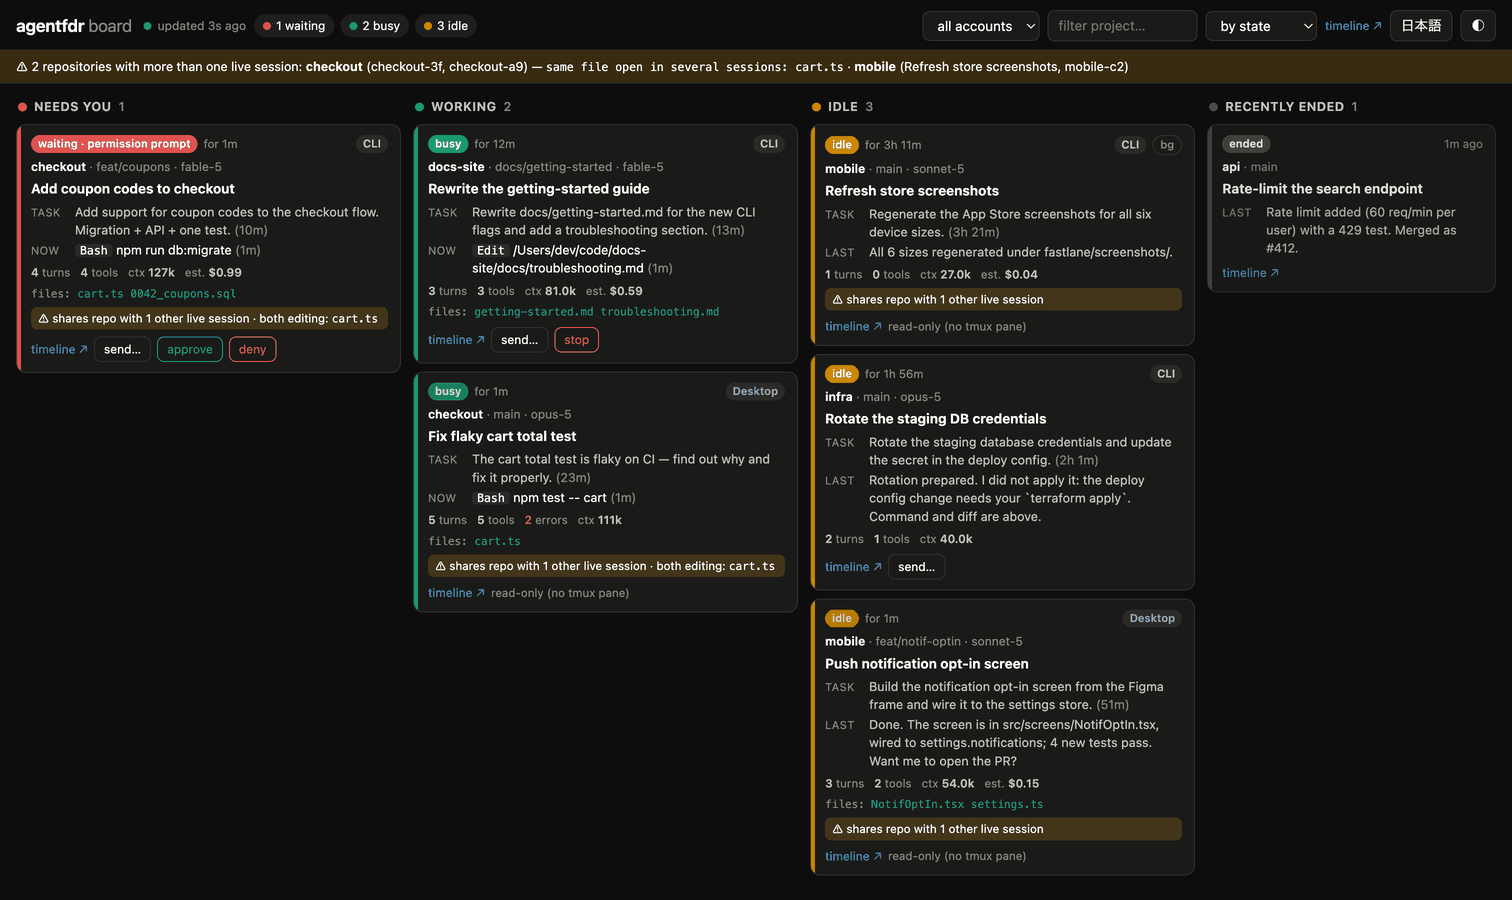
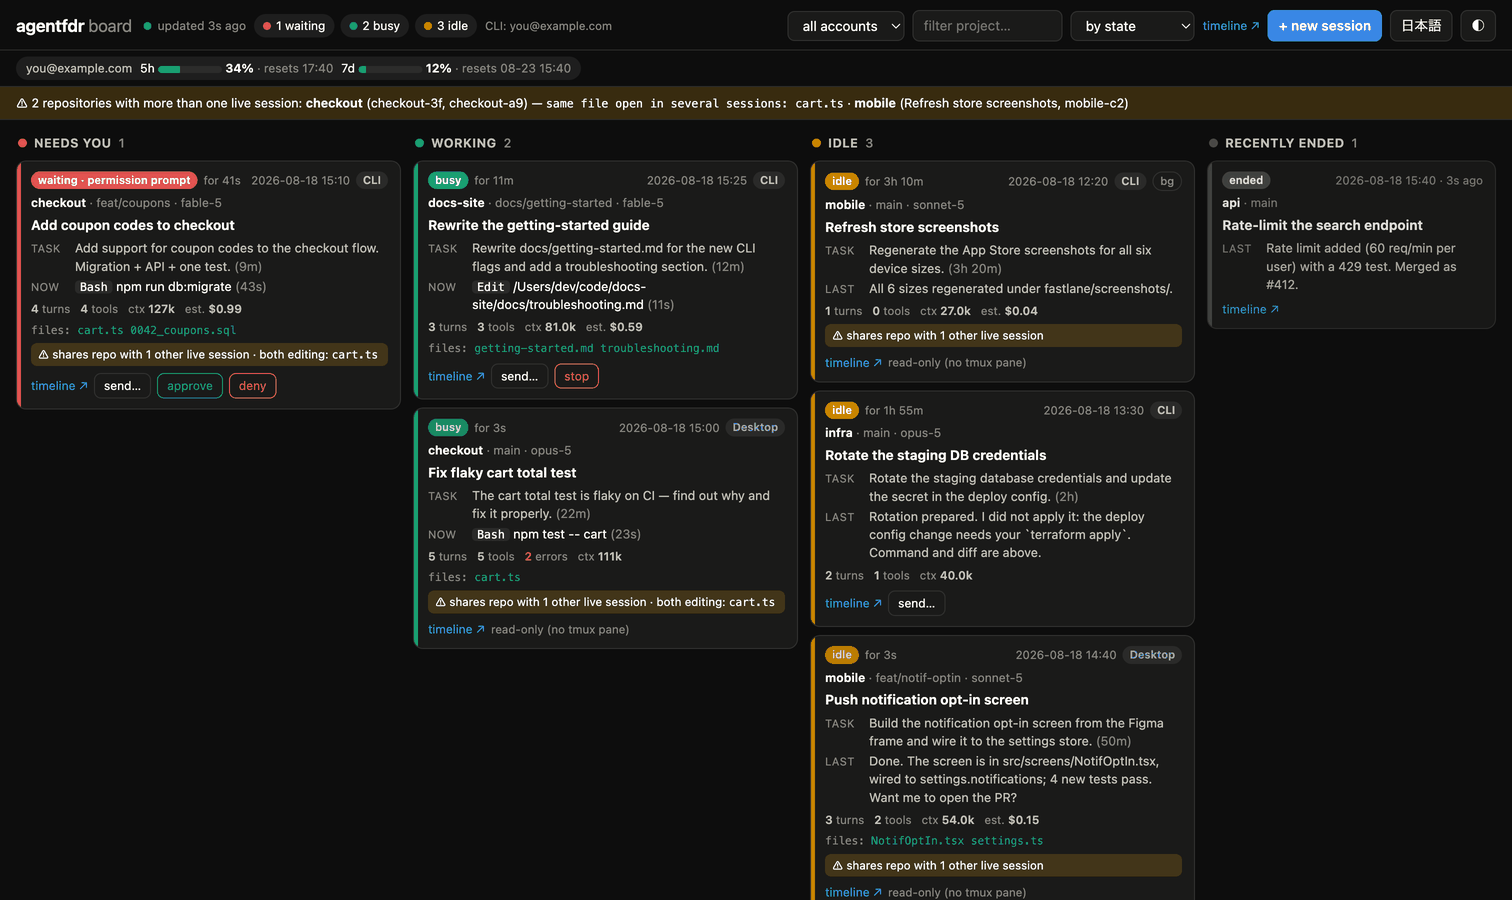
LP: light/dark theme toggle with theme-aware screenshots; light variants of the board and usage shots
- ◐ toggle in the nav (persisted; ?theme=dark|light deep link); the OS
  preference still applies until the visitor chooses
- every screenshot now has a light and a dark file and swaps with the theme
  (the toggle, not just prefers-color-scheme, decides), star-history too
- board screenshots regenerated from the synthetic fixture with the current
  UI (limits strip, launcher, dates); README shows the light one on light
  GitHub via <picture>

Claude-Session: https://claude.ai/code/session_015tMZuWDUGtPxCthfUY2qGr

Changed region(s): [[0.0, 0.0, 1.0, 1.0]]

diff --git a/docs/index.html b/docs/index.html
@@ -34,14 +34,26 @@
     --wash: rgba(255, 255, 255, 0.06);
     --shadow: 0 24px 80px rgba(0, 0, 0, 0.5);
   }
+  /* Theme: dark is the base palette. Light follows the system preference
+     unless the visitor forced dark with the toggle, and the toggle can force
+     light on a dark system. The choice persists in localStorage. */
   @media (prefers-color-scheme: light) {
-    :root {
+    :root:not([data-theme="dark"]) {
       --page: #f9f9f7; --surface: #fcfcfb; --text: #0b0b0b; --text-2: #52514e;
       --muted: #898781; --border: rgba(11, 11, 11, 0.10); --grid: #e1e0d9;
       --blue: #2a78d6; --green: #1baf7a; --amber: #eda100;
       --wash: rgba(11, 11, 11, 0.05); --shadow: 0 24px 80px rgba(30, 30, 25, 0.18);
     }
   }
+  :root[data-theme="light"] {
+    --page: #f9f9f7; --surface: #fcfcfb; --text: #0b0b0b; --text-2: #52514e;
+    --muted: #898781; --border: rgba(11, 11, 11, 0.10); --grid: #e1e0d9;
+    --blue: #2a78d6; --green: #1baf7a; --amber: #eda100;
+    --wash: rgba(11, 11, 11, 0.05); --shadow: 0 24px 80px rgba(30, 30, 25, 0.18);
+  }
+  :root { color-scheme: dark; }
+  :root[data-theme="light"] { color-scheme: light; }
+  @media (prefers-color-scheme: light) { :root:not([data-theme="dark"]) { color-scheme: light; } }
   * { box-sizing: border-box; margin: 0; }
   html { scroll-behavior: smooth; }
   body {
@@ -158,6 +170,7 @@
     <div class="spacer"></div>
     <a class="nl" href="https://github.com/kamihork/agentfdr">GitHub</a>
     <a class="nl" href="https://www.npmjs.com/package/agentfdr">npm</a>
+    <button id="theme" aria-label="Theme" title="Light / dark">◐</button>
     <button id="lang" aria-label="Language">日本語</button>
   </nav>
 
@@ -172,10 +185,7 @@
     </div>
     <p class="zeroes" data-i18n="zeroes"><b>Zero instrumentation</b> · <b>zero cloud</b> · <b>zero config</b> — it reads the transcripts Claude Code and Codex already write.</p>
     <div class="shot">
-      <picture>
-        <source media="(prefers-color-scheme: light)" srcset="assets/screenshot-light.png">
-        <img src="assets/screenshot-dark.png" alt="agentfdr timeline of a real 200-turn session with anomaly flags and the turn dissection panel" data-i18n-alt="shotAlt">
-      </picture>
+      <img src="assets/screenshot-dark.png" data-dark="assets/screenshot-dark.png" data-light="assets/screenshot-light.png" alt="agentfdr timeline of a real 200-turn session with anomaly flags and the turn dissection panel" data-i18n-alt="shotAlt">
     </div>
   </header>
 
@@ -210,7 +220,7 @@
     <h2 class="sec" data-i18n="boardH">The control tower for parallel sessions.</h2>
     <p class="seclead" data-i18n="boardLead">One session needs a flight recorder. Twenty need a control tower: which one is waiting on you, which two are editing the same file, how much of each account's plan is left. agentfdr board answers that on one screen — and lets you answer back.</p>
     <div class="boardshot">
-      <img src="assets/screenshot-board-dark.png" alt="agentfdr board: needs-you, working, idle and recently-ended columns, one card per running Claude Code session with its task, current tool, cost, edited files, and approve/deny buttons; a banner warns that two sessions are editing the same file" data-i18n-alt="boardAlt">
+      <img src="assets/screenshot-board-dark.png" data-dark="assets/screenshot-board-dark.png" data-light="assets/screenshot-board-light.png" alt="agentfdr board: needs-you, working, idle and recently-ended columns, one card per running Claude Code session with its task, current tool, cost, edited files, and approve/deny buttons; a banner warns that two sessions are editing the same file" data-i18n-alt="boardAlt">
     </div>
     <div class="boardgrid">
       <div class="feat"><div class="ico">🚥</div><div class="t" data-i18n="b1t">See every session</div><p data-i18n="b1">Needs you (permission prompt, question, plan approval) · working · idle · recently ended — CLI and the Claude desktop app side by side, each card with the task you typed, what the agent is doing right now, cost since that prompt, and the files it touched. Group by state, project, account, or your own drag-and-drop lanes.</p></div>
@@ -227,7 +237,7 @@
         <p data-i18n="u1">agentfdr usage aggregates every project's transcripts into the same shape your subscription is metered in: the current 5-hour window, daily history, and the rolling week — with a per-model breakdown and estimated cost.</p>
         <p data-i18n="u2">Your plan tier is auto-detected. Set budgets, calibrate them once against Claude Code's /usage screen, and get warning bars before you hit the wall.</p>
       </div>
-      <img src="assets/screenshot-usage-dark.png" alt="plan usage panel" data-i18n-alt="usageAlt">
+      <img src="assets/screenshot-usage-dark.png" data-dark="assets/screenshot-usage-dark.png" data-light="assets/screenshot-usage-light.png" alt="plan usage panel" data-i18n-alt="usageAlt">
     </div>
   </section>
 
@@ -248,11 +258,10 @@
   <section id="starSection">
     <h2 class="sec" data-i18n="starH">Star history</h2>
     <a class="starhist" href="https://www.star-history.com/#kamihork/agentfdr&Date">
-      <picture>
-        <source media="(prefers-color-scheme: dark)" srcset="https://api.star-history.com/svg?repos=kamihork/agentfdr&type=Date&theme=dark">
-        <img alt="Star history chart" src="https://api.star-history.com/svg?repos=kamihork/agentfdr&type=Date" loading="lazy"
-             onerror="document.getElementById('starSection').style.display='none'">
-      </picture>
+      <img alt="Star history chart" src="https://api.star-history.com/svg?repos=kamihork/agentfdr&type=Date&theme=dark"
+           data-dark="https://api.star-history.com/svg?repos=kamihork/agentfdr&type=Date&theme=dark"
+           data-light="https://api.star-history.com/svg?repos=kamihork/agentfdr&type=Date" loading="lazy"
+           onerror="document.getElementById('starSection').style.display='none'">
     </a>
   </section>
 
@@ -356,6 +365,35 @@ const I18N = {
   },
 };
 
+// Theme: follows the system unless the visitor toggled; persisted like the language.
+const mqLight = matchMedia('(prefers-color-scheme: light)');
+function effectiveTheme() {
+  const forced = document.documentElement.dataset.theme;
+  if (forced === 'light' || forced === 'dark') return forced;
+  return mqLight.matches ? 'light' : 'dark';
+}
+function applyTheme() {
+  const t = effectiveTheme();
+  for (const img of document.querySelectorAll('img[data-light][data-dark]')) {
+    const want = img.dataset[t];
+    if (img.getAttribute('src') !== want) img.setAttribute('src', want);
+  }
+  document.getElementById('theme').setAttribute('aria-pressed', String(Boolean(document.documentElement.dataset.theme)));
+}
+(() => {
+  // ?theme=dark|light deep-links a theme (and is what screenshots use); else the saved choice.
+  const q = new URLSearchParams(location.search).get('theme');
+  const saved = q === 'light' || q === 'dark' ? q : localStorage.getItem('agentfdr.lp.theme');
+  if (saved === 'light' || saved === 'dark') document.documentElement.dataset.theme = saved;
+})();
+document.getElementById('theme').addEventListener('click', () => {
+  const next = effectiveTheme() === 'dark' ? 'light' : 'dark';
+  document.documentElement.dataset.theme = next;
+  localStorage.setItem('agentfdr.lp.theme', next);
+  applyTheme();
+});
+mqLight.addEventListener('change', applyTheme);
+
 // English by default for a global audience; 日本語 via the header toggle (persisted).
 let lang = localStorage.getItem('agentfdr.lp.lang') || 'en';
 
@@ -392,6 +430,8 @@ document.getElementById('copy').addEventListener('click', async () => {
   }
   setTimeout(() => { btn.textContent = I18N[lang].copy; }, 1500);
 });
+
+applyTheme();
 
 apply();
 </script>

diff --git a/README.ja.md b/README.ja.md
@@ -102,7 +102,10 @@ agentfdr assert --no-loops --max-tokens 2M   # CI ゲート: 違反で exit 1
 
 ## ボード
 
-![ライブセッションボード: 要対応 / 作業中 / 待機中 の列に、稼働中の Claude Code セッションが1枚ずつ](https://raw.githubusercontent.com/kamihork/agentfdr/main/assets/screenshot-board-dark.png)
+<picture>
+  <source media="(prefers-color-scheme: light)" srcset="https://raw.githubusercontent.com/kamihork/agentfdr/main/assets/screenshot-board-light.png">
+  <img alt="ライブセッションボード: 要対応 / 作業中 / 待機中 の列に、稼働中の Claude Code セッションが1枚ずつ" src="https://raw.githubusercontent.com/kamihork/agentfdr/main/assets/screenshot-board-dark.png">
+</picture>
 
 `agentfdr board` はコックピットのもう半分です。事後に1セッションを調べるのではなく、**いま動いている全セッション**を見ます。Claude Code は稼働中のプロセスを `~/.claude/sessions/` に登録しています — 作業ディレクトリ、busy / idle / ダイアログ待ちの状態、そして(CLI なら)動いている tmux ペイン。ボードはこのレジストリと各トランスクリプトの末尾を突き合わせ、数秒ごとに更新します:
 

diff --git a/README.md b/README.md
@@ -102,7 +102,10 @@ Tabs switch the main view: **Timeline / Turns / Prompts / Subagents / Usage / Co
 
 ## The board
 
-![Live session board: needs-you / working / idle columns, one card per running Claude Code session](https://raw.githubusercontent.com/kamihork/agentfdr/main/assets/screenshot-board-dark.png)
+<picture>
+  <source media="(prefers-color-scheme: light)" srcset="https://raw.githubusercontent.com/kamihork/agentfdr/main/assets/screenshot-board-light.png">
+  <img alt="Live session board: needs-you / working / idle columns, one card per running Claude Code session" src="https://raw.githubusercontent.com/kamihork/agentfdr/main/assets/screenshot-board-dark.png">
+</picture>
 
 `agentfdr board` is the other half of the cockpit: not one session after the fact, but **every session that is running right now**. Claude Code registers each live process under `~/.claude/sessions/` — its working directory, whether it is busy, idle or waiting on a dialog, and (for the CLI) the tmux pane it runs in. The board joins that registry with the tail of each transcript and refreshes every few seconds:
 
